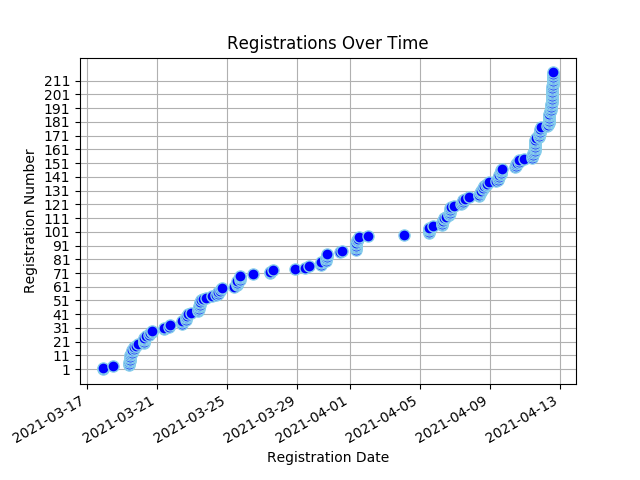
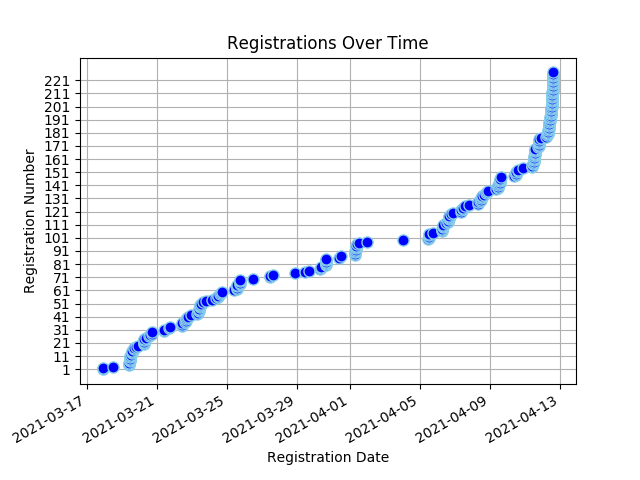
Registree stats backup on Mon 12 Apr 2021 15:45:35 SAST

diff --git a/content/registrees/_index.md b/content/registrees/_index.md
@@ -3,7 +3,7 @@ title: Registration Stats
 draft: false
 ---
 
-<ul><li><strong>Number of Registrees</strong>: 217</li>
+<ul><li><strong>Number of Registrees</strong>: 227</li>
 
 <li><strong>Number of Clubs</strong>: 63</li>
 
@@ -33,6 +33,6 @@ draft: false
         </tr>
     </thead>
     <tbody>
-<tr><td>Natalie Abrahams</td><td>Cape Town</td><td>410W</td></tr><tr><td>Rashid Adams</td><td>Athlone</td><td>410W</td></tr><tr><td>Linda Anderson</td><td>George</td><td>410W</td></tr><tr><td>Neale Stewart ANDREWS</td><td>Cowies Hill</td><td>410E</td></tr><tr><td>Linda Baumgarten</td><td>Sea Point</td><td>410W</td></tr><tr><td>Ulrike Behrens</td><td>Windhoek</td><td>410W</td></tr><tr><td>Valencia Beukes-Williams</td><td>Kuilsriver</td><td>410W</td></tr><tr><td>Belinda Blakeman</td><td>North Durban</td><td>410E</td></tr><tr><td>Lyn(ette) Botha</td><td>Cowies Hill</td><td>410E</td></tr><tr><td>JOSE BRAGA BORGES</td><td>Malmesbury</td><td>410W</td></tr><tr><td>JOSE BRAGA BORGES</td><td>Malmesbury</td><td>410W</td></tr><tr><td>Paul Brauteseth</td><td>Port Shepstone</td><td>410E</td></tr><tr><td>Nelle Buhrmann</td><td>Sea Point</td><td>410W</td></tr><tr><td>Christopher Bull</td><td>The Wilds</td><td>410E</td></tr><tr><td>Herman Cadman</td><td>Stellenbosch</td><td>410W</td></tr><tr><td>Artemis Calomiris</td><td>Helderberg</td><td>410W</td></tr><tr><td>Linda Ann Cannone</td><td>Fish Hoek</td><td>410W</td></tr><tr><td>Lizelle Castle</td><td>Athlone</td><td>410W</td></tr><tr><td>Sue Charles</td><td>Tokai</td><td>410W</td></tr><tr><td>Lionel Chazen</td><td>Edenvale</td><td>410E</td></tr><tr><td>Perry Chetty</td><td>East Coast</td><td>410E</td></tr><tr><td>Delaney Yeltsin Cloete</td><td>Eden</td><td>410W</td></tr><tr><td>Kate Coppen</td><td>Letaba Tzaneen</td><td>410E</td></tr><tr><td>Kate Coppen</td><td>Letaba Tzaneen</td><td>410E</td></tr><tr><td>Esme Cornelius</td><td>Kuilsriver</td><td>410W</td></tr><tr><td>Sharon Cottle</td><td>Groote Schuur</td><td>410W</td></tr><tr><td>Peter Daniel</td><td>Gordons Bay</td><td>410W</td></tr><tr><td>Norma Daniel</td><td>Gordons Bay</td><td>410W</td></tr><tr><td>Engela de Kock</td><td>Swellendam</td><td>410W</td></tr><tr><td>Francois de Kock</td><td>Swellendam</td><td>410W</td></tr><tr><td>ANDRE DE VILLIERS</td><td>Malgas</td><td>410W</td></tr><tr><td>ANDRE DE VILLIERS</td><td>Malgas</td><td>410W</td></tr><tr><td>Lara De Wet</td><td>Edenvale</td><td>410E</td></tr><tr><td>Benita Diener</td><td>Mitchells Plain</td><td>410W</td></tr><tr><td>Peggy Du Plooy</td><td>Krugersdorp</td><td>410E</td></tr><tr><td>Ivan Du Plooy</td><td>Krugersdorp</td><td>410E</td></tr><tr><td>Tammy du Plooy</td><td>Alberton</td><td>410E</td></tr><tr><td>Marc du Plooy</td><td>Alberton</td><td>410E</td></tr><tr><td>Desiree du Toit</td><td>Ramsgate</td><td>410E</td></tr><tr><td>Freddie Erasmus</td><td>Uitenhage</td><td>410E</td></tr><tr><td>Natalie Etridge</td><td>Sedgefield</td><td>410W</td></tr><tr><td>AIDAN Ewers</td><td>Newlands</td><td>410W</td></tr><tr><td>Roger Fahrbach</td><td>Windhoek</td><td>410W</td></tr><tr><td>Beate Fahrbach</td><td>Windhoek</td><td>410W</td></tr><tr><td>Jules Flanagan</td><td>Tokai</td><td>410W</td></tr><tr><td>Charles Flanagan</td><td>Tokai</td><td>410W</td></tr><tr><td>Clive Fox</td><td>Merriman</td><td>410W</td></tr><tr><td>Pat Fox</td><td>Merriman</td><td>410W</td></tr><tr><td>Martin Froise</td><td>Letaba Tzaneen</td><td>410E</td></tr><tr><td>Valerie Graham</td><td>Nelspruit</td><td>410E</td></tr><tr><td>Mike Graham</td><td>Nelspruit</td><td>410E</td></tr><tr><td>Viv Grater</td><td>Sedgefield</td><td>410W</td></tr><tr><td>Matty Grobler</td><td>Henties Bay</td><td>410W</td></tr><tr><td>Mattheus Groves</td><td>Sedgefield</td><td>410W</td></tr><tr><td>Barbara Haywood</td><td>Eden</td><td>410W</td></tr><tr><td>Mike Heathcote</td><td>Port Shepstone</td><td>410E</td></tr><tr><td>Zarina Hendricks</td><td>Athlone</td><td>410W</td></tr><tr><td>Evelyn Herzfeld</td><td>Edenvale</td><td>410E</td></tr><tr><td>Dorothy Hess</td><td>Kuilsriver</td><td>410W</td></tr><tr><td>Wendy Higgins</td><td>Wilro Park</td><td>410E</td></tr><tr><td>Jacqui Hocking</td><td>Midrand</td><td>410E</td></tr><tr><td>Cliff Hocking</td><td>Midrand</td><td>410E</td></tr><tr><td>Ellen G W Hoffmann</td><td>Windhoek</td><td>410W</td></tr><tr><td>KEITH ALEXANDER HOLLIMAN</td><td>Alberton</td><td>410E</td></tr><tr><td>Liz Houston</td><td>Table View</td><td>410W</td></tr><tr><td>John Houston</td><td>Table View</td><td>410W</td></tr><tr><td>Alna Jackson</td><td>Pretoria Jakaranda</td><td>410E</td></tr><tr><td>Dawid Jacobs</td><td>Durbanville</td><td>410W</td></tr><tr><td>Jean Jacobs</td><td>Mitchells Plain</td><td>410W</td></tr><tr><td>WOLSLEY Jacobson</td><td>Cape Town</td><td>410W</td></tr><tr><td>MALCOLM JOHNSTON</td><td>Standerton</td><td>410E</td></tr><tr><td>Grant Jonathan</td><td>Gordons Bay</td><td>410W</td></tr><tr><td>Jerome Kern</td><td>Groote Schuur</td><td>410W</td></tr><tr><td>Ian King</td><td>Alberton</td><td>410E</td></tr><tr><td>Sandy King</td><td>Alberton</td><td>410E</td></tr><tr><td>Christa Koekemoer</td><td>Letaba Tzaneen</td><td>410E</td></tr><tr><td>Muya Koloko</td><td>Durbanville</td><td>410W</td></tr><tr><td>Zwaai Kruger</td><td>Sedgefield</td><td>410W</td></tr><tr><td>Natalie Laas</td><td>Alberton</td><td>410E</td></tr><tr><td>Bevil Lakay</td><td>Mitchells Plain</td><td>410W</td></tr><tr><td>Bevil Lakay</td><td>Mitchells Plain</td><td>410W</td></tr><tr><td>Paula Lang</td><td>Gordons Bay</td><td>410W</td></tr><tr><td>Jimmy Lang</td><td>Gordons Bay</td><td>410W</td></tr><tr><td>Herman Laubscher</td><td>Ceres</td><td>410W</td></tr><tr><td>Jeanette le Roux</td><td>Gonubie</td><td>410E</td></tr><tr><td>Heather Lee</td><td>Cape Of Good Hope</td><td>410W</td></tr><tr><td>Dee Love</td><td>Cowies Hill</td><td>410E</td></tr><tr><td>Rashmiya Lucas</td><td>Mitchells Plain</td><td>410W</td></tr><tr><td>Zarina Luck</td><td>Newcastle</td><td>410E</td></tr><tr><td>Pam MacRobert</td><td>Groote Schuur</td><td>410W</td></tr><tr><td>Pam MacRobert</td><td>Groote Schuur</td><td>410W</td></tr><tr><td>Sharon Mangwende</td><td>Cape Town</td><td>410W</td></tr><tr><td>Richard MARCHANT</td><td>The Wilds</td><td>410E</td></tr><tr><td>Beaulieu Mare</td><td>Benoni Lakes</td><td>410E</td></tr><tr><td>Nick Maré</td><td>Benoni Lakes</td><td>410E</td></tr><tr><td>Jean Masson</td><td>Port Shepstone</td><td>410E</td></tr><tr><td>LANCE MAYTHAM</td><td>Swellendam</td><td>410W</td></tr><tr><td>ROSEMARIE MAYTHAM</td><td>Swellendam</td><td>410W</td></tr><tr><td>David Mccullough</td><td>Pretoria South</td><td>410E</td></tr><tr><td>Rochelle McDonald</td><td>Vereeniging</td><td>410E</td></tr><tr><td>Alec McKerrow</td><td>Port Alfred</td><td>410E</td></tr><tr><td>Stuart McPherson</td><td>Newlands</td><td>410W</td></tr><tr><td>Mark Meltzer</td><td>The Wilds</td><td>410E</td></tr><tr><td>Elisa Metz</td><td>Milnerton</td><td>410W</td></tr><tr><td>Denis Meyer</td><td>Port Shepstone</td><td>410E</td></tr><tr><td>Roy Michas</td><td>Midrand</td><td>410E</td></tr><tr><td>Dawn Michas</td><td>Midrand</td><td>410E</td></tr><tr><td>BERNICE MILLS</td><td>Centurion</td><td>410E</td></tr><tr><td>Patrick Mills</td><td>Centurion</td><td>410E</td></tr><tr><td>Cherie Milosevich</td><td>Milnerton</td><td>410W</td></tr><tr><td>Cherie Milosevich</td><td>Milnerton</td><td>410W</td></tr><tr><td>Alana Mitchell</td><td>Rustenburg</td><td>410E</td></tr><tr><td>Juan Mitchell</td><td>Rustenburg</td><td>410E</td></tr><tr><td>Virginia Mkhize</td><td>Cape Town</td><td>410W</td></tr><tr><td>Frauke E. Moeller</td><td>Windhoek</td><td>410W</td></tr><tr><td>Bernadine Moses</td><td>Cape Town</td><td>410W</td></tr><tr><td>Jacques Mostert</td><td>Merriman</td><td>410W</td></tr><tr><td>Suzanne Murray</td><td>Vereeniging</td><td>410E</td></tr><tr><td>Gary Murray</td><td>Vereeniging</td><td>410E</td></tr><tr><td>Pieter Myburg</td><td>Wellington</td><td>410W</td></tr><tr><td>Pieter Nel</td><td>George</td><td>410W</td></tr><tr><td>Tillie Nel</td><td>Eden</td><td>410W</td></tr><tr><td>Mike Newlands</td><td>Port Alfred</td><td>410E</td></tr><tr><td>Mike Newlands</td><td>Port Alfred</td><td>410E</td></tr><tr><td>Angela Niehaus</td><td>Bergvliet</td><td>410W</td></tr><tr><td>Rachel Nortjie</td><td>Mitchells Plain</td><td>410W</td></tr><tr><td>PDG Bokkie Oberholzer</td><td>Uitenhage</td><td>410E</td></tr><tr><td>Chris Ocker</td><td>Fish Hoek</td><td>410W</td></tr><tr><td>Jenny Ocker</td><td>Fish Hoek</td><td>410W</td></tr><tr><td>Debra Olivier</td><td>Sedgefield</td><td>410W</td></tr><tr><td>Teresa Pantoleon</td><td>Vereeniging</td><td>410E</td></tr><tr><td>Maureen Peters</td><td>Ceres</td><td>410W</td></tr><tr><td>Sundru Pillay</td><td>Durbanville</td><td>410W</td></tr><tr><td>Patrick Pillay</td><td>Tygerberg Hills</td><td>410W</td></tr><tr><td>Tracey Polkinghorne</td><td>Kensington</td><td>410E</td></tr><tr><td>Gavin Polkinghorne</td><td>Kensington</td><td>410E</td></tr><tr><td>BRIAN PORTEOUS</td><td>Hibberdene</td><td>410E</td></tr><tr><td>Mary-Anne Ras</td><td>Swellendam</td><td>410W</td></tr><tr><td>Leon Jacobus Ras</td><td>Swellendam</td><td>410E</td></tr><tr><td>Hugo Reniers</td><td>Nelspruit</td><td>410E</td></tr><tr><td>Sandy Roman</td><td>Bergvliet</td><td>410W</td></tr><tr><td>Mark Rossouw</td><td>Tokai</td><td>410W</td></tr><tr><td>Anthonie Petrus Roux</td><td>Moorreesburg</td><td>410W</td></tr><tr><td>Irene Rugheimer</td><td>Bedfordview</td><td>410E</td></tr><tr><td>Ingrid Russell</td><td>Fish Hoek</td><td>410W</td></tr><tr><td>Rodney Sabatier</td><td>Letaba Tzaneen</td><td>410E</td></tr><tr><td>Sharon Sampie</td><td>Bergvliet</td><td>410W</td></tr><tr><td>Frank Schatz</td><td>Windhoek</td><td>410W</td></tr><tr><td>Vera Schatz</td><td>Windhoek</td><td>410W</td></tr><tr><td>Frank Schatz</td><td>Windhoek</td><td>410W</td></tr><tr><td>Francis Searle</td><td>Kouga</td><td>410E</td></tr><tr><td>Gloria Searle</td><td>Kouga</td><td>410E</td></tr><tr><td>Ami Sell</td><td>Windhoek</td><td>410W</td></tr><tr><td>Beryl Simpson</td><td>Cape Town</td><td>410W</td></tr><tr><td>Kenlis Sircoulomb</td><td>Windhoek</td><td>410W</td></tr><tr><td>Holger Sircoulomb</td><td>Windhoek</td><td>410W</td></tr><tr><td>Hennie Smeer</td><td>Windhoek</td><td>410W</td></tr><tr><td>Sue Smit</td><td>Centurion</td><td>410E</td></tr><tr><td>Herman Smit</td><td>Swellendam</td><td>410W</td></tr><tr><td>Jeff Smith</td><td>Port Shepstone</td><td>410E</td></tr><tr><td>Bennie Smith</td><td>Wellington</td><td>410W</td></tr><tr><td>Carmen Dolores Smith</td><td>Tokai</td><td>410W</td></tr><tr><td>David John Smith</td><td>Tokai</td><td>410W</td></tr><tr><td>LYN SNYMAN</td><td>Deep South</td><td>410W</td></tr><tr><td>Diana Sochen</td><td>Sea Point</td><td>410W</td></tr><tr><td>Max Stander</td><td>Port Alfred</td><td>410E</td></tr><tr><td>Ashley Stander</td><td>Krugersdorp</td><td>410E</td></tr><tr><td>Brett Jason Stander</td><td>Krugersdorp</td><td>410E</td></tr><tr><td>TIM STEENBERG</td><td>Wellington</td><td>410W</td></tr><tr><td>RORY stier</td><td>Deep South</td><td>410W</td></tr><tr><td>Patrick Strauss</td><td>Kuilsriver</td><td>410W</td></tr><tr><td>Lauryn Talbot</td><td>Benoni Lakes</td><td>410E</td></tr><tr><td>Pierre Theron</td><td>Midrand</td><td>410E</td></tr><tr><td>Moira Theron</td><td>Midrand</td><td>410E</td></tr><tr><td>Diane Townsend</td><td>Benoni Lakes</td><td>410E</td></tr><tr><td>Diane Townsend</td><td>Benoni Lakes</td><td>410E</td></tr><tr><td>David Alex Tshikala</td><td>Athlone</td><td>410W</td></tr><tr><td>Alistair Tuckett</td><td>Roodepoort Clearwater Cyber</td><td>410E</td></tr><tr><td>Rowan Tuckett</td><td>Roodepoort Clearwater Cyber</td><td>410E</td></tr><tr><td>Gail Tuckett</td><td>Roodepoort Clearwater Cyber</td><td>410E</td></tr><tr><td>Jiri Uchytil</td><td>Alberton</td><td>410E</td></tr><tr><td>Carl van Blerk</td><td>Eden</td><td>410W</td></tr><tr><td>HILARY LISE VAN BREDA</td><td>Cape Town</td><td>410W</td></tr><tr><td>Marina Van de Merwe</td><td>Malmesbury</td><td>410W</td></tr><tr><td>Ingrid van der Merwe</td><td>Letaba Tzaneen</td><td>410E</td></tr><tr><td>PATRICIA VAN DER MERWE</td><td>East London Port Rex</td><td>410E</td></tr><tr><td>MARINA VAN DER MERWE</td><td>Malmesbury</td><td>410W</td></tr><tr><td>Sydney van Heerden</td><td>Wilro Park</td><td>410E</td></tr><tr><td>Sandy van Heerden</td><td>Wilro Park</td><td>410E</td></tr><tr><td>Craig van Heerden</td><td>East London Beacon Bay</td><td>410E</td></tr><tr><td>Neville Van Rensburg</td><td>Moorreesburg</td><td>410W</td></tr><tr><td>Johan van Rensburg</td><td>Windhoek</td><td>410W</td></tr><tr><td>Anne van Rensburg</td><td>Windhoek</td><td>410W</td></tr><tr><td>Jeannie van Wulven</td><td>Tygerberg Hills</td><td>410W</td></tr><tr><td>Alan van Wulven</td><td>Tygerberg Hills</td><td>410W</td></tr><tr><td>Deon van Wulven</td><td>Tygerberg Hills</td><td>410W</td></tr><tr><td>Jeannie van Wulven</td><td>Tygerberg Hills</td><td>410W</td></tr><tr><td>Alan van Wulven</td><td>Tygerberg Hills</td><td>410W</td></tr><tr><td>Kim van Wyk</td><td>North Durban</td><td>410E</td></tr><tr><td>Lindie van Wyk</td><td>Pretoria Jakaranda</td><td>410E</td></tr><tr><td>Willem van Wyk</td><td>Midrand</td><td>410E</td></tr><tr><td>Patricia van Wyk</td><td>Pretoria Jakaranda</td><td>410E</td></tr><tr><td>Edith Van Wyk-Nelson</td><td>Kuilsriver</td><td>410W</td></tr><tr><td>Louis Venter</td><td>Letaba Tzaneen</td><td>410E</td></tr><tr><td>Russell Volker</td><td>King William's Town</td><td>410E</td></tr><tr><td>Brian von der Decken</td><td>King William's Town</td><td>410E</td></tr><tr><td>Rinette Von Mollendorf</td><td>Durbanville</td><td>410W</td></tr><tr><td>Rochelle Vorster</td><td>Sedgefield</td><td>410W</td></tr><tr><td>Alastair Warman</td><td>Port Shepstone</td><td>410E</td></tr><tr><td>Allan Watson</td><td>Sea Point</td><td>410W</td></tr><tr><td>Alison Watson</td><td>Sedgefield</td><td>410W</td></tr><tr><td>Neville Williamson</td><td>Port Alfred</td><td>410E</td></tr><tr><td>Geila Wills</td><td>Athlone</td><td>410W</td></tr><tr><td>Joan Woodman</td><td>Mitchells Plain</td><td>410W</td></tr><tr><td>Rocky Wright</td><td>Table View</td><td>410W</td></tr><tr><td>Judy Young</td><td>Durbanville</td><td>410W</td></tr><tr><td>Leonie Zucker</td><td>Milnerton</td><td>410W</td></tr>
+<tr><td>Natalie Abrahams</td><td>Cape Town</td><td>410W</td></tr><tr><td>Rashid Adams</td><td>Athlone</td><td>410W</td></tr><tr><td>Linda Anderson</td><td>George</td><td>410W</td></tr><tr><td>Neale Stewart ANDREWS</td><td>Cowies Hill</td><td>410E</td></tr><tr><td>Linda Baumgarten</td><td>Sea Point</td><td>410W</td></tr><tr><td>Ulrike Behrens</td><td>Windhoek</td><td>410W</td></tr><tr><td>Valencia Beukes-Williams</td><td>Kuilsriver</td><td>410W</td></tr><tr><td>Belinda Blakeman</td><td>North Durban</td><td>410E</td></tr><tr><td>Lyn(ette) Botha</td><td>Cowies Hill</td><td>410E</td></tr><tr><td>JOSE BRAGA BORGES</td><td>Malmesbury</td><td>410W</td></tr><tr><td>JOSE BRAGA BORGES</td><td>Malmesbury</td><td>410W</td></tr><tr><td>Paul Brauteseth</td><td>Port Shepstone</td><td>410E</td></tr><tr><td>Nelle Buhrmann</td><td>Sea Point</td><td>410W</td></tr><tr><td>Christopher Bull</td><td>The Wilds</td><td>410E</td></tr><tr><td>Herman Cadman</td><td>Stellenbosch</td><td>410W</td></tr><tr><td>Artemis Calomiris</td><td>Helderberg</td><td>410W</td></tr><tr><td>Linda Ann Cannone</td><td>Fish Hoek</td><td>410W</td></tr><tr><td>Lizelle Castle</td><td>Athlone</td><td>410W</td></tr><tr><td>Sue Charles</td><td>Tokai</td><td>410W</td></tr><tr><td>Lionel Chazen</td><td>Edenvale</td><td>410E</td></tr><tr><td>Perry Chetty</td><td>East Coast</td><td>410E</td></tr><tr><td>Delaney Yeltsin Cloete</td><td>Eden</td><td>410W</td></tr><tr><td>Kate Coppen</td><td>Letaba Tzaneen</td><td>410E</td></tr><tr><td>Kate Coppen</td><td>Letaba Tzaneen</td><td>410E</td></tr><tr><td>Esme Cornelius</td><td>Kuilsriver</td><td>410W</td></tr><tr><td>Sharon Cottle</td><td>Groote Schuur</td><td>410W</td></tr><tr><td>Peter Daniel</td><td>Gordons Bay</td><td>410W</td></tr><tr><td>Norma Daniel</td><td>Gordons Bay</td><td>410W</td></tr><tr><td>Engela de Kock</td><td>Swellendam</td><td>410W</td></tr><tr><td>Francois de Kock</td><td>Swellendam</td><td>410W</td></tr><tr><td>Charlotte de Silva</td><td>Edenvale</td><td>410E</td></tr><tr><td>ANDRE DE VILLIERS</td><td>Malgas</td><td>410W</td></tr><tr><td>ANDRE DE VILLIERS</td><td>Malgas</td><td>410W</td></tr><tr><td>Lara De Wet</td><td>Edenvale</td><td>410E</td></tr><tr><td>Benita Diener</td><td>Mitchells Plain</td><td>410W</td></tr><tr><td>Peggy Du Plooy</td><td>Krugersdorp</td><td>410E</td></tr><tr><td>Ivan Du Plooy</td><td>Krugersdorp</td><td>410E</td></tr><tr><td>Tammy du Plooy</td><td>Alberton</td><td>410E</td></tr><tr><td>Marc du Plooy</td><td>Alberton</td><td>410E</td></tr><tr><td>Desiree du Toit</td><td>Ramsgate</td><td>410E</td></tr><tr><td>Fadia Ely</td><td>Athlone</td><td>410W</td></tr><tr><td>Freddie Erasmus</td><td>Uitenhage</td><td>410E</td></tr><tr><td>Natalie Etridge</td><td>Sedgefield</td><td>410W</td></tr><tr><td>AIDAN Ewers</td><td>Newlands</td><td>410W</td></tr><tr><td>Roger Fahrbach</td><td>Windhoek</td><td>410W</td></tr><tr><td>Beate Fahrbach</td><td>Windhoek</td><td>410W</td></tr><tr><td>Jules Flanagan</td><td>Tokai</td><td>410W</td></tr><tr><td>Charles Flanagan</td><td>Tokai</td><td>410W</td></tr><tr><td>Clive Fox</td><td>Merriman</td><td>410W</td></tr><tr><td>Pat Fox</td><td>Merriman</td><td>410W</td></tr><tr><td>Martin Froise</td><td>Letaba Tzaneen</td><td>410E</td></tr><tr><td>Allison Georges</td><td>Cape Of Good Hope</td><td>410W</td></tr><tr><td>Bernd Gerhard</td><td>Wilro Park</td><td>410E</td></tr><tr><td>Shirley Gerhard</td><td>Wilro Park</td><td>410E</td></tr><tr><td>Valerie Graham</td><td>Nelspruit</td><td>410E</td></tr><tr><td>Mike Graham</td><td>Nelspruit</td><td>410E</td></tr><tr><td>Viv Grater</td><td>Sedgefield</td><td>410W</td></tr><tr><td>Brian Gray</td><td>Durbanville</td><td>410W</td></tr><tr><td>Matty Grobler</td><td>Henties Bay</td><td>410W</td></tr><tr><td>Mattheus Groves</td><td>Sedgefield</td><td>410W</td></tr><tr><td>Barbara Haywood</td><td>Eden</td><td>410W</td></tr><tr><td>Mike Heathcote</td><td>Port Shepstone</td><td>410E</td></tr><tr><td>Zarina Hendricks</td><td>Athlone</td><td>410W</td></tr><tr><td>ELIZABETH Hendriks</td><td>Table View</td><td>410W</td></tr><tr><td>Evelyn Herzfeld</td><td>Edenvale</td><td>410E</td></tr><tr><td>Dorothy Hess</td><td>Kuilsriver</td><td>410W</td></tr><tr><td>Wendy Higgins</td><td>Wilro Park</td><td>410E</td></tr><tr><td>Jacqui Hocking</td><td>Midrand</td><td>410E</td></tr><tr><td>Cliff Hocking</td><td>Midrand</td><td>410E</td></tr><tr><td>Ellen G W Hoffmann</td><td>Windhoek</td><td>410W</td></tr><tr><td>KEITH ALEXANDER HOLLIMAN</td><td>Alberton</td><td>410E</td></tr><tr><td>Liz Houston</td><td>Table View</td><td>410W</td></tr><tr><td>John Houston</td><td>Table View</td><td>410W</td></tr><tr><td>Alna Jackson</td><td>Pretoria Jakaranda</td><td>410E</td></tr><tr><td>Dawid Jacobs</td><td>Durbanville</td><td>410W</td></tr><tr><td>Jean Jacobs</td><td>Mitchells Plain</td><td>410W</td></tr><tr><td>WOLSLEY Jacobson</td><td>Cape Town</td><td>410W</td></tr><tr><td>MALCOLM JOHNSTON</td><td>Standerton</td><td>410E</td></tr><tr><td>Grant Jonathan</td><td>Gordons Bay</td><td>410W</td></tr><tr><td>Jerome Kern</td><td>Groote Schuur</td><td>410W</td></tr><tr><td>Ian King</td><td>Alberton</td><td>410E</td></tr><tr><td>Sandy King</td><td>Alberton</td><td>410E</td></tr><tr><td>Christa Koekemoer</td><td>Letaba Tzaneen</td><td>410E</td></tr><tr><td>Muya Koloko</td><td>Durbanville</td><td>410W</td></tr><tr><td>Zwaai Kruger</td><td>Sedgefield</td><td>410W</td></tr><tr><td>Natalie Laas</td><td>Alberton</td><td>410E</td></tr><tr><td>Bevil Lakay</td><td>Mitchells Plain</td><td>410W</td></tr><tr><td>Bevil Lakay</td><td>Mitchells Plain</td><td>410W</td></tr><tr><td>Paula Lang</td><td>Gordons Bay</td><td>410W</td></tr><tr><td>Jimmy Lang</td><td>Gordons Bay</td><td>410W</td></tr><tr><td>Herman Laubscher</td><td>Ceres</td><td>410W</td></tr><tr><td>Jeanette le Roux</td><td>Gonubie</td><td>410E</td></tr><tr><td>Heather Lee</td><td>Cape Of Good Hope</td><td>410W</td></tr><tr><td>Erika Louw</td><td>Durbanville</td><td>410W</td></tr><tr><td>Dee Love</td><td>Cowies Hill</td><td>410E</td></tr><tr><td>Rashmiya Lucas</td><td>Mitchells Plain</td><td>410W</td></tr><tr><td>Zarina Luck</td><td>Newcastle</td><td>410E</td></tr><tr><td>Pam MacRobert</td><td>Groote Schuur</td><td>410W</td></tr><tr><td>Pam MacRobert</td><td>Groote Schuur</td><td>410W</td></tr><tr><td>Sharon Mangwende</td><td>Cape Town</td><td>410W</td></tr><tr><td>Richard MARCHANT</td><td>The Wilds</td><td>410E</td></tr><tr><td>Beaulieu Mare</td><td>Benoni Lakes</td><td>410E</td></tr><tr><td>Nick Maré</td><td>Benoni Lakes</td><td>410E</td></tr><tr><td>Jean Masson</td><td>Port Shepstone</td><td>410E</td></tr><tr><td>LANCE MAYTHAM</td><td>Swellendam</td><td>410W</td></tr><tr><td>ROSEMARIE MAYTHAM</td><td>Swellendam</td><td>410W</td></tr><tr><td>David Mccullough</td><td>Pretoria South</td><td>410E</td></tr><tr><td>Rochelle McDonald</td><td>Vereeniging</td><td>410E</td></tr><tr><td>Alec McKerrow</td><td>Port Alfred</td><td>410E</td></tr><tr><td>Stuart McPherson</td><td>Newlands</td><td>410W</td></tr><tr><td>Mark Meltzer</td><td>The Wilds</td><td>410E</td></tr><tr><td>Elisa Metz</td><td>Milnerton</td><td>410W</td></tr><tr><td>Denis Meyer</td><td>Port Shepstone</td><td>410E</td></tr><tr><td>Roy Michas</td><td>Midrand</td><td>410E</td></tr><tr><td>Dawn Michas</td><td>Midrand</td><td>410E</td></tr><tr><td>BERNICE MILLS</td><td>Centurion</td><td>410E</td></tr><tr><td>Patrick Mills</td><td>Centurion</td><td>410E</td></tr><tr><td>Cherie Milosevich</td><td>Milnerton</td><td>410W</td></tr><tr><td>Cherie Milosevich</td><td>Milnerton</td><td>410W</td></tr><tr><td>Alana Mitchell</td><td>Rustenburg</td><td>410E</td></tr><tr><td>Juan Mitchell</td><td>Rustenburg</td><td>410E</td></tr><tr><td>Virginia Mkhize</td><td>Cape Town</td><td>410W</td></tr><tr><td>Frauke E. Moeller</td><td>Windhoek</td><td>410W</td></tr><tr><td>Bernadine Moses</td><td>Cape Town</td><td>410W</td></tr><tr><td>Jacques Mostert</td><td>Merriman</td><td>410W</td></tr><tr><td>Suzanne Murray</td><td>Vereeniging</td><td>410E</td></tr><tr><td>Gary Murray</td><td>Vereeniging</td><td>410E</td></tr><tr><td>Pieter Myburg</td><td>Wellington</td><td>410W</td></tr><tr><td>Pieter Nel</td><td>George</td><td>410W</td></tr><tr><td>Tillie Nel</td><td>Eden</td><td>410W</td></tr><tr><td>Mike Newlands</td><td>Port Alfred</td><td>410E</td></tr><tr><td>Mike Newlands</td><td>Port Alfred</td><td>410E</td></tr><tr><td>Angela Niehaus</td><td>Bergvliet</td><td>410W</td></tr><tr><td>Rachel Nortjie</td><td>Mitchells Plain</td><td>410W</td></tr><tr><td>PDG Bokkie Oberholzer</td><td>Uitenhage</td><td>410E</td></tr><tr><td>Chris Ocker</td><td>Fish Hoek</td><td>410W</td></tr><tr><td>Jenny Ocker</td><td>Fish Hoek</td><td>410W</td></tr><tr><td>Debra Olivier</td><td>Sedgefield</td><td>410W</td></tr><tr><td>Isabella Stratton Ormandy</td><td>Milnerton</td><td>410W</td></tr><tr><td>Teresa Pantoleon</td><td>Vereeniging</td><td>410E</td></tr><tr><td>Maureen Peters</td><td>Ceres</td><td>410W</td></tr><tr><td>Sundru Pillay</td><td>Durbanville</td><td>410W</td></tr><tr><td>Patrick Pillay</td><td>Tygerberg Hills</td><td>410W</td></tr><tr><td>Tracey Polkinghorne</td><td>Kensington</td><td>410E</td></tr><tr><td>Gavin Polkinghorne</td><td>Kensington</td><td>410E</td></tr><tr><td>BRIAN PORTEOUS</td><td>Hibberdene</td><td>410E</td></tr><tr><td>Mary-Anne Ras</td><td>Swellendam</td><td>410W</td></tr><tr><td>Leon Jacobus Ras</td><td>Swellendam</td><td>410E</td></tr><tr><td>Hugo Reniers</td><td>Nelspruit</td><td>410E</td></tr><tr><td>Sandy Roman</td><td>Bergvliet</td><td>410W</td></tr><tr><td>Mark Rossouw</td><td>Tokai</td><td>410W</td></tr><tr><td>Anthonie Petrus Roux</td><td>Moorreesburg</td><td>410W</td></tr><tr><td>Irene Rugheimer</td><td>Bedfordview</td><td>410E</td></tr><tr><td>Ingrid Russell</td><td>Fish Hoek</td><td>410W</td></tr><tr><td>Rodney Sabatier</td><td>Letaba Tzaneen</td><td>410E</td></tr><tr><td>Sharon Sampie</td><td>Bergvliet</td><td>410W</td></tr><tr><td>Frank Schatz</td><td>Windhoek</td><td>410W</td></tr><tr><td>Vera Schatz</td><td>Windhoek</td><td>410W</td></tr><tr><td>Frank Schatz</td><td>Windhoek</td><td>410W</td></tr><tr><td>Francis Searle</td><td>Kouga</td><td>410E</td></tr><tr><td>Gloria Searle</td><td>Kouga</td><td>410E</td></tr><tr><td>Ami Sell</td><td>Windhoek</td><td>410W</td></tr><tr><td>Beryl Simpson</td><td>Cape Town</td><td>410W</td></tr><tr><td>Kenlis Sircoulomb</td><td>Windhoek</td><td>410W</td></tr><tr><td>Holger Sircoulomb</td><td>Windhoek</td><td>410W</td></tr><tr><td>Hennie Smeer</td><td>Windhoek</td><td>410W</td></tr><tr><td>Sue Smit</td><td>Centurion</td><td>410E</td></tr><tr><td>Herman Smit</td><td>Swellendam</td><td>410W</td></tr><tr><td>Jeff Smith</td><td>Port Shepstone</td><td>410E</td></tr><tr><td>Bennie Smith</td><td>Wellington</td><td>410W</td></tr><tr><td>Carmen Dolores Smith</td><td>Tokai</td><td>410W</td></tr><tr><td>David John Smith</td><td>Tokai</td><td>410W</td></tr><tr><td>LYN SNYMAN</td><td>Deep South</td><td>410W</td></tr><tr><td>Diana Sochen</td><td>Sea Point</td><td>410W</td></tr><tr><td>Max Stander</td><td>Port Alfred</td><td>410E</td></tr><tr><td>Ashley Stander</td><td>Krugersdorp</td><td>410E</td></tr><tr><td>Brett Jason Stander</td><td>Krugersdorp</td><td>410E</td></tr><tr><td>TIM STEENBERG</td><td>Wellington</td><td>410W</td></tr><tr><td>RORY stier</td><td>Deep South</td><td>410W</td></tr><tr><td>Patrick Strauss</td><td>Kuilsriver</td><td>410W</td></tr><tr><td>Lauryn Talbot</td><td>Benoni Lakes</td><td>410E</td></tr><tr><td>Pierre Theron</td><td>Midrand</td><td>410E</td></tr><tr><td>Moira Theron</td><td>Midrand</td><td>410E</td></tr><tr><td>Diane Townsend</td><td>Benoni Lakes</td><td>410E</td></tr><tr><td>Diane Townsend</td><td>Benoni Lakes</td><td>410E</td></tr><tr><td>David Alex Tshikala</td><td>Athlone</td><td>410W</td></tr><tr><td>Alistair Tuckett</td><td>Roodepoort Clearwater Cyber</td><td>410E</td></tr><tr><td>Rowan Tuckett</td><td>Roodepoort Clearwater Cyber</td><td>410E</td></tr><tr><td>Gail Tuckett</td><td>Roodepoort Clearwater Cyber</td><td>410E</td></tr><tr><td>Jiri Uchytil</td><td>Alberton</td><td>410E</td></tr><tr><td>Tracy Valadao</td><td>Midrand</td><td>410E</td></tr><tr><td>Carl van Blerk</td><td>Eden</td><td>410W</td></tr><tr><td>HILARY LISE VAN BREDA</td><td>Cape Town</td><td>410W</td></tr><tr><td>Marina Van de Merwe</td><td>Malmesbury</td><td>410W</td></tr><tr><td>Ingrid van der Merwe</td><td>Letaba Tzaneen</td><td>410E</td></tr><tr><td>PATRICIA VAN DER MERWE</td><td>East London Port Rex</td><td>410E</td></tr><tr><td>MARINA VAN DER MERWE</td><td>Malmesbury</td><td>410W</td></tr><tr><td>Sydney van Heerden</td><td>Wilro Park</td><td>410E</td></tr><tr><td>Sandy van Heerden</td><td>Wilro Park</td><td>410E</td></tr><tr><td>Craig van Heerden</td><td>East London Beacon Bay</td><td>410E</td></tr><tr><td>Neville Van Rensburg</td><td>Moorreesburg</td><td>410W</td></tr><tr><td>Johan van Rensburg</td><td>Windhoek</td><td>410W</td></tr><tr><td>Anne van Rensburg</td><td>Windhoek</td><td>410W</td></tr><tr><td>Jeannie van Wulven</td><td>Tygerberg Hills</td><td>410W</td></tr><tr><td>Alan van Wulven</td><td>Tygerberg Hills</td><td>410W</td></tr><tr><td>Deon van Wulven</td><td>Tygerberg Hills</td><td>410W</td></tr><tr><td>Jeannie van Wulven</td><td>Tygerberg Hills</td><td>410W</td></tr><tr><td>Alan van Wulven</td><td>Tygerberg Hills</td><td>410W</td></tr><tr><td>Kim van Wyk</td><td>North Durban</td><td>410E</td></tr><tr><td>Lindie van Wyk</td><td>Pretoria Jakaranda</td><td>410E</td></tr><tr><td>Willem van Wyk</td><td>Midrand</td><td>410E</td></tr><tr><td>Patricia van Wyk</td><td>Pretoria Jakaranda</td><td>410E</td></tr><tr><td>Edith Van Wyk-Nelson</td><td>Kuilsriver</td><td>410W</td></tr><tr><td>Louis Venter</td><td>Letaba Tzaneen</td><td>410E</td></tr><tr><td>Russell Volker</td><td>King William's Town</td><td>410E</td></tr><tr><td>Brian von der Decken</td><td>King William's Town</td><td>410E</td></tr><tr><td>Rinette Von Mollendorf</td><td>Durbanville</td><td>410W</td></tr><tr><td>Rochelle Vorster</td><td>Sedgefield</td><td>410W</td></tr><tr><td>Alastair Warman</td><td>Port Shepstone</td><td>410E</td></tr><tr><td>Allan Watson</td><td>Sea Point</td><td>410W</td></tr><tr><td>Alison Watson</td><td>Sedgefield</td><td>410W</td></tr><tr><td>Neville Williamson</td><td>Port Alfred</td><td>410E</td></tr><tr><td>Geila Wills</td><td>Athlone</td><td>410W</td></tr><tr><td>Joan Woodman</td><td>Mitchells Plain</td><td>410W</td></tr><tr><td>Rocky Wright</td><td>Table View</td><td>410W</td></tr><tr><td>Judy Young</td><td>Durbanville</td><td>410W</td></tr><tr><td>Leonie Zucker</td><td>Milnerton</td><td>410W</td></tr>
 </tbody>
 </table>

diff --git a/content/full_stats/_index.md b/content/full_stats/_index.md
@@ -16,17 +16,17 @@ draft: false
 </head>
 <body>
 <h1 style="color: #000000;">Full Registration Stats</h1>
-<ul><li><strong>Number of Registrees</strong>: 217</li>
+<ul><li><strong>Number of Registrees</strong>: 227</li>
 <li><strong>Number of Clubs</strong>: 63</li>
 <li><strong>Club With Most Attendees</strong>: Windhoek (14 registrees)</li>
 
-<li><strong>Number of District 410W Convention Attendees</strong>: 120</li>
-<li><strong>Number of District 410W Convention Voters</strong>: 58</li>
-<li><strong>Number of District 410E Convention Attendees</strong>: 87</li>
-<li><strong>Number of District 410E Convention Voters</strong>: 45</li>
+<li><strong>Number of District 410W Convention Attendees</strong>: 125</li>
+<li><strong>Number of District 410W Convention Voters</strong>: 59</li>
+<li><strong>Number of District 410E Convention Attendees</strong>: 90</li>
+<li><strong>Number of District 410E Convention Voters</strong>: 46</li>
 
-<li><strong>Number of MD410 Convention Attendees</strong>: 180</li>
-<li><strong>Number of MD410 Convention Voters</strong>: 93</li>
+<li><strong>Number of MD410 Convention Attendees</strong>: 189</li>
+<li><strong>Number of MD410 Convention Voters</strong>: 94</li>
 
 </ul>
 <h2>Registrees</h2>
@@ -391,6 +391,17 @@ draft: false
 </tr>
 
     
+<td>236</td>
+<td>Charlotte de Silva</td>
+<td>Edenvale</td>
+<td>410E</td>
+<td>No</td>
+<td style="background-color: lightgreen">Yes</td>
+<td style="background-color: lightgreen">Yes</td>
+<td style="background-color: lightgreen">Yes</td>
+</tr>
+
+    
 <td>63</td>
 <td>ANDRE DE VILLIERS</td>
 <td>Malgas</td>
@@ -483,6 +494,17 @@ draft: false
 <td>Desiree du Toit</td>
 <td>Ramsgate</td>
 <td>410E</td>
+<td>No</td>
+<td style="background-color: lightgreen">Yes</td>
+<td style="background-color: lightgreen">Yes</td>
+<td>No</td>
+</tr>
+
+    
+<td>240</td>
+<td>Fadia Ely</td>
+<td>Athlone</td>
+<td>410W</td>
 <td>No</td>
 <td style="background-color: lightgreen">Yes</td>
 <td style="background-color: lightgreen">Yes</td>
@@ -600,6 +622,39 @@ draft: false
 </tr>
 
     
+<td>237</td>
+<td>Allison Georges</td>
+<td>Cape Of Good Hope</td>
+<td>410W</td>
+<td>No</td>
+<td style="background-color: lightgreen">Yes</td>
+<td style="background-color: lightgreen">Yes</td>
+<td>No</td>
+</tr>
+
+    
+<td>234</td>
+<td>Bernd Gerhard</td>
+<td>Wilro Park</td>
+<td>410E</td>
+<td style="background-color: lightgreen">Yes</td>
+<td style="background-color: lightgreen">Yes</td>
+<td style="background-color: lightgreen">Yes</td>
+<td>No</td>
+</tr>
+
+    
+<td>235</td>
+<td>Shirley Gerhard</td>
+<td>Wilro Park</td>
+<td>410E</td>
+<td>No</td>
+<td style="background-color: lightgreen">Yes</td>
+<td style="background-color: lightgreen">Yes</td>
+<td>No</td>
+</tr>
+
+    
 <td>125</td>
 <td>Valerie Graham</td>
 <td>Nelspruit</td>
@@ -630,6 +685,17 @@ draft: false
 <td style="background-color: lightgreen">Yes</td>
 <td style="background-color: lightgreen">Yes</td>
 <td>No</td>
+</tr>
+
+    
+<td>232</td>
+<td>Brian Gray</td>
+<td>Durbanville</td>
+<td>410W</td>
+<td>No</td>
+<td style="background-color: lightgreen">Yes</td>
+<td style="background-color: lightgreen">Yes</td>
+<td style="background-color: lightgreen">Yes</td>
 </tr>
 
     
@@ -685,6 +751,17 @@ draft: false
 <td style="background-color: lightgreen">Yes</td>
 <td style="background-color: lightgreen">Yes</td>
 <td>No</td>
+</tr>
+
+    
+<td>233</td>
+<td>ELIZABETH Hendriks</td>
+<td>Table View</td>
+<td>410W</td>
+<td>No</td>
+<td style="background-color: lightgreen">Yes</td>
+<td style="background-color: lightgreen">Yes</td>
+<td style="background-color: lightgreen">Yes</td>
 </tr>
 
     
@@ -1004,6 +1081,17 @@ draft: false
 <td style="background-color: lightgreen">Yes</td>
 <td style="background-color: lightgreen">Yes</td>
 <td>No</td>
+</tr>
+
+    
+<td>238</td>
+<td>Erika Louw</td>
+<td>Durbanville</td>
+<td>410W</td>
+<td>No</td>
+<td>No</td>
+<td style="background-color: lightgreen">Yes</td>
+<td style="background-color: lightgreen">Yes</td>
 </tr>
 
     
@@ -1488,6 +1576,17 @@ draft: false
 <td style="background-color: lightgreen">Yes</td>
 <td>No</td>
 <td>No</td>
+</tr>
+
+    
+<td>242</td>
+<td>Isabella Stratton Ormandy</td>
+<td>Milnerton</td>
+<td>410W</td>
+<td style="background-color: lightgreen">Yes</td>
+<td style="background-color: lightgreen">Yes</td>
+<td>No</td>
+<td style="background-color: lightgreen">Yes</td>
 </tr>
 
     
@@ -2048,6 +2147,17 @@ draft: false
 <td>No</td>
 <td style="background-color: lightgreen">Yes</td>
 <td>No</td>
+<td style="background-color: lightgreen">Yes</td>
+</tr>
+
+    
+<td>241</td>
+<td>Tracy Valadao</td>
+<td>Midrand</td>
+<td>410E</td>
+<td>No</td>
+<td>No</td>
+<td style="background-color: lightgreen">Yes</td>
 <td style="background-color: lightgreen">Yes</td>
 </tr>
 
